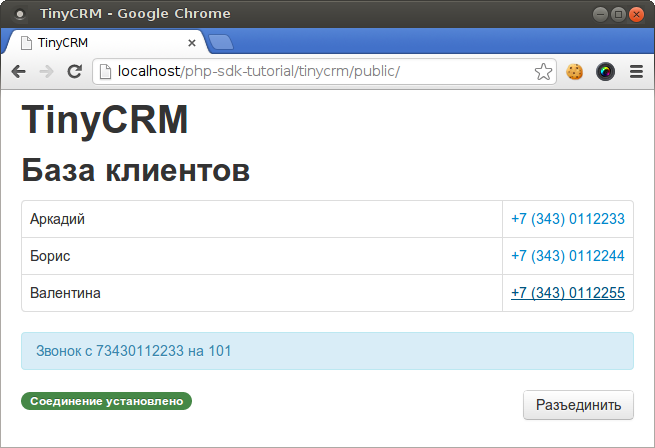
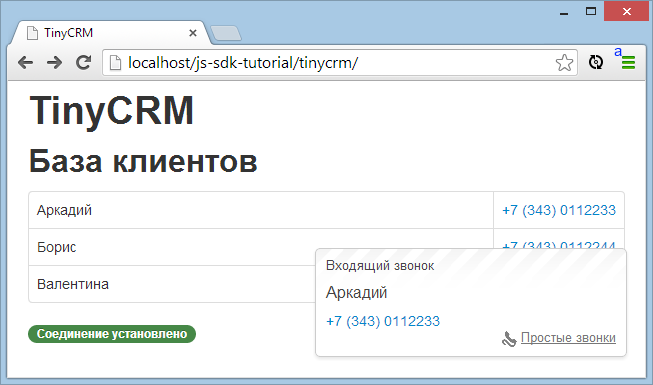
incoming call card update

diff --git a/tinycrm/js/tinycrm.js b/tinycrm/js/tinycrm.js
@@ -1,24 +1,17 @@
 (function ($) {
-    var userPhone = '102',
+    var userPhone = '101',
         storage = [
-            {
-                name:  'Аркадий Аркадиевич Аркадьев',
-                phone: '+7 (343) 0112233'
-            },
-            {
-                name:  'Борис Борисович Борисов',
-                phone: '+7 (343) 0112244'
-            },
-            {
-                name:  'Валентина Валентиновна Валентинова',
-                phone: '+7 (343) 0112255'
-            }
+            { name: 'Аркадий', phone: '+7 (343) 0112233' },
+            { name: 'Борис', phone: '+7 (343) 0112244' },
+            { name: 'Валентина', phone: '+7 (343) 0112255' }
         ];
 
     storage.forEach(function (contact) {
+        var phoneLink = '<span class="btn-link make-call">' + contact.phone + '</span>';
+
         $('<tr></tr>')
             .append('<td>' + contact.name + '</td>')
-            .append('<td width="1%" nowrap><span title="Позвонить" class="btn-link make-call">' + contact.phone + '</span></td>')
+            .append('<td width="1%" nowrap>' + phoneLink + '</td>')
             .appendTo('#contacts');
     });
 
@@ -47,9 +40,9 @@
     $('#button').on('click', function() {
         if ($(this).text() === 'Соединить') {
             pz.connect({
-                host: "ws://localhost",
-                client_id: 'password',
-                client_type: 'jsapi'
+                host: "ws://localhost", // Адрес сервера
+                client_id: 'password',  // Пароль
+                client_type: 'jsapi'    // Тип приложения
             });
         } else {
             pz.disconnect();

diff --git a/tinycrm/index.html b/tinycrm/index.html
@@ -12,17 +12,16 @@
 		<h1>TinyCRM</h1>
 		<h2>База клиентов</h2>
 		<table id="contacts" class="table table-bordered"></table>
-		<div style="display: none;" class="alert alert-info"></div>
 		<span id="button" class="btn pull-right">Соединить</span>
 		<span id="indicator" class="badge">Проверка соединения...</span>
-		<h2>История звонков</h2>
+		<!-- <h2>История звонков</h2>
 		<table id="history" class="table table-bordered">
 			<th width="10%">Направление</th>
 			<th width="10%">Телефон</th>
 			<th width="40%">Клиент</th>
 			<th width="20%">Начало</th>
 			<th width="20%">Продолжительность</th>
-		</table>
+		</table> -->
 	</div>
 
 	<script src="js/jquery.min.js"></script>

diff --git a/README.md b/README.md
@@ -6,12 +6,14 @@
 В данном примере мы рассмотрим процесс подключения к серверу Простых Звонков веб-приложения, написанного на javascript. Мы начнём с веб-приложения, выводящего на экран список клиентов из базы данных, и добавим в него следующие функции:
 
 - отображение всплывающей карточки при входящем звонке;
-- звонок клиенту по клику на телефоный номер.
+- звонок клиенту по клику на телефоный номер;
+- умная переадресация на менеджера клиента;
+- отображение истории входящих и исходящих звонков.
 
 Шаг 0. Исходное приложение
 --------------------------
 
-Наше исходное приложение умеет показывать список клиентов. В качестве базы данных используется массив storage, определяемый в файле js/script.js. Прочитанные из файла строки отображаются в виде таблицы.
+Наше исходное приложение умеет показывать список клиентов. В качестве базы данных используется массив storage, определяемый в файле js/tinycrm.js. Прочитанные из файла строки отображаются в виде таблицы.
 
 index.html:
 
@@ -23,6 +25,7 @@ index.html:
     <title>TinyCRM</title>
     <link rel="stylesheet" href="css/bootstrap.min.css">
     <link rel="stylesheet" href="css/bootstrap-responsive.min.css">
+    <link rel="stylesheet" href="css/tinycrm.css">
 </head>
 <body>
     <div class="container">
@@ -31,8 +34,8 @@ index.html:
         <table id="contacts" class="table table-bordered"></table>
     </div>
 
-    <script src="//ajax.googleapis.com/ajax/libs/jquery/1.10.1/jquery.min.js"></script>
-    <script src="js/script.js"></script>
+    <script src="js/jquery.min.js"></script>
+    <script src="js/tinycrm.js"></script>
 </body>
 </html>
 ```
@@ -42,21 +45,17 @@ js/script.js:
 ```js
 (function ($) {
     var storage = [
-        { name: 'Аркадий', phone: '+7 (343) 0112233' },
-        { name: 'Борис', phone: '+7 (343) 0112244' },
-        { name: 'Валентина', phone: '+7 (343) 0112255' }
-    ];
+            { name: 'Аркадий', phone: '+7 (343) 0112233' },
+            { name: 'Борис', phone: '+7 (343) 0112244' },
+            { name: 'Валентина', phone: '+7 (343) 0112255' }
+        ];
 
-    var table = $('#contacts');
-
-    for (var i = 0; i < storage.length; i += 1) {
-        var row = $('<tr></tr>');
-
-        row.append('<td>' + storage[i].name + '</td>');
-        row.append('<td width="1%" nowrap>' + storage[i].phone + '</td>');
-
-        row.appendTo(table);
-    }
+    storage.forEach(function (contact) {
+        $('<tr></tr>')
+            .append('<td>' + contact.name + '</td>')
+            .append('<td width="1%" nowrap>' + contact.phone + '</td>')
+            .appendTo('#contacts');
+    });
 }(jQuery));
 ```
 
@@ -103,9 +102,9 @@ js/script.js:
 $('#button').on('click', function() {
     if ($(this).text() === 'Соединить') {
         pz.connect({
-            host: 'ws://localhost:10150', // Адрес сервера
-            client_id: 'password',        // Пароль
-            client_type: 'jsapi'          // Тип приложения
+            host: 'ws://localhost', // Адрес сервера
+            client_id: 'password',  // Пароль
+            client_type: 'jsapi'    // Тип приложения
         });
     } else {
         pz.disconnect();
@@ -140,22 +139,31 @@ setInterval(function() {
 Шаг 2. Исходящие звонки кликом по номеру
 ----------------------------------------
 
-Для начала, сделаем номера телефонов клиентов ссылками:
+Для начала, сделаем номера телефонов клиентов ссылками. Для этого заменим код, отвечающий за заполнение таблицы с контактами:
 
 ```js
-row.append('<td width="1%" nowrap><span title="Позвонить" class="btn-link make-call">' + storage[i].phone + '</span></td>');
+storage.forEach(function (contact) {
+    var phoneLink = '<span class="btn-link make-call">' + contact.phone + '</span>';
+
+    $('<tr></tr>')
+        .append('<td>' + contact.name + '</td>')
+        .append('<td width="1%" nowrap>' + phoneLink + '</td>')
+        .appendTo('#contacts');
+}););
 ```
 
 ![Делаем телефоны ссылками](https://github.com/vedisoft/js-sdk-tutorial/raw/master/img/phone-links.png)
 
-Теперь добавим на страницу обработчики нажатия на ссылки:
+Теперь укажем внутренний номер сотрудника и добавим на страницу обработчик нажатий на ссылки:
 
 ```js
-$('body').on('click', '.make-call', function() {
-        var phone = $(this).text().trim();
+var userPhone = '101';
 
-        pz.call(phone);
-    });
+pz.setUserPhone(userPhone);
+
+$('body').on('click', '.make-call', function() {
+    pz.call($(this).text());
+});
 ```
 
 Кликнув на номер клиента, посмотрим на вывод тестового сервера:
@@ -169,10 +177,63 @@ Call event from CRM: src = 101, dst = +7 (343) 0112233
 Шаг 3. Всплывающая карточка входящего звонка
 --------------------------------------------
 
-На страницу поместим скрытый контейнер, который мы будем использовать в качестве всплывающей карточки:
+Для отображения всплывающих карточек воспользуемся плагином [jQuery Noty](http://needim.github.io/noty/).
 
-```html
-<div style="display: none;" class="alert alert-info"></div>
+Скачаем архив с плагином и распакуем его в папку `js/noty`. Теперь нужно подключить все необходимые файлы:
+
+```js
+<script src="js/noty/jquery.noty.js"></script>
+<script src="js/noty/layouts/bottomRight.js"></script>
+<script src="js/noty/themes/default.js"></script>
+```
+
+Подготовим функцию для поиска контактов по номеру телефона:
+
+```js
+function sanitizePhone(phone)
+{
+    return phone.replace(/\D/g, '').slice(-10);
+}
+
+function findByPhone(contacts, phone) {
+    return contacts.filter(function (contact) {
+        return sanitizePhone(contact.phone) === sanitizePhone(phone);
+    }).shift();
+}
+```
+
+> Как видите, мы воспользовались вспомогательной функцией для очистки номера телефона от посторонних символов и кода страны. Таким образом, поиск по номерам `+7 (343) 0112233` и `83430112233` будет выдавать одинаковый результат, что там и нужно.
+
+Теперь у нас есть вся необходимая информация, и мы можем заняться непосредственно отображением карточек. Подготовим две вариации шаблона карточки: для случая когда номер найден в базе, и когда он не найден:
+
+```js
+function getNotyText(phone, name) {
+    return '<span class="pz_noty_title">Входящий звонок</span>' +
+        (name ? '<span class="pz_noty_contact">' + name + '</span>' : '') +
+        '<span class="pz_noty_phone btn-link make-call">' + phone + '</span>' +
+        '<span class="pz_noty_copyright">' +
+            '<img src="img/pz.ico">' +
+            '<a target="_blank" href="http://prostiezvonki.ru">Простые звонки</a>' +
+        '</span>';
+}
+```
+
+Напишем функцию, при вызове которой в правом нижнем углу экрана будет появляться карточка. Чтобы не загромождать экран, при очередном звонке будем скрывать старую карточку.
+
+```js
+function showCard(phone) {
+    var contact = findByPhone(storage, phone);
+    var text = contact
+            ? getNotyText(contact.phone, contact.name)
+            : getNotyText(phone);
+
+    $.noty.closeAll();
+    noty({
+        layout: 'bottomRight',
+        closeWith: ['button'],
+        text: text
+    });
+}
 ```
 
 Осталось добавить функцию, которая будет вызываться при получении события от серевера. Мы будем показывать всплывающую карточку при получении события входящего звонка.
@@ -181,8 +242,12 @@ Call event from CRM: src = 101, dst = +7 (343) 0112233
 
 ```js
 pz.onEvent(function (event) {
-    if (event.isIncoming()) {
-        $('.alert').text('Звонок с '+event.from+' на '+event.to).show();
+    switch (true) {
+        case event.isIncoming():
+            if (event.to === userPhone) {
+                showCard(event.from);
+            }
+            break;
     }
 });
 ```
